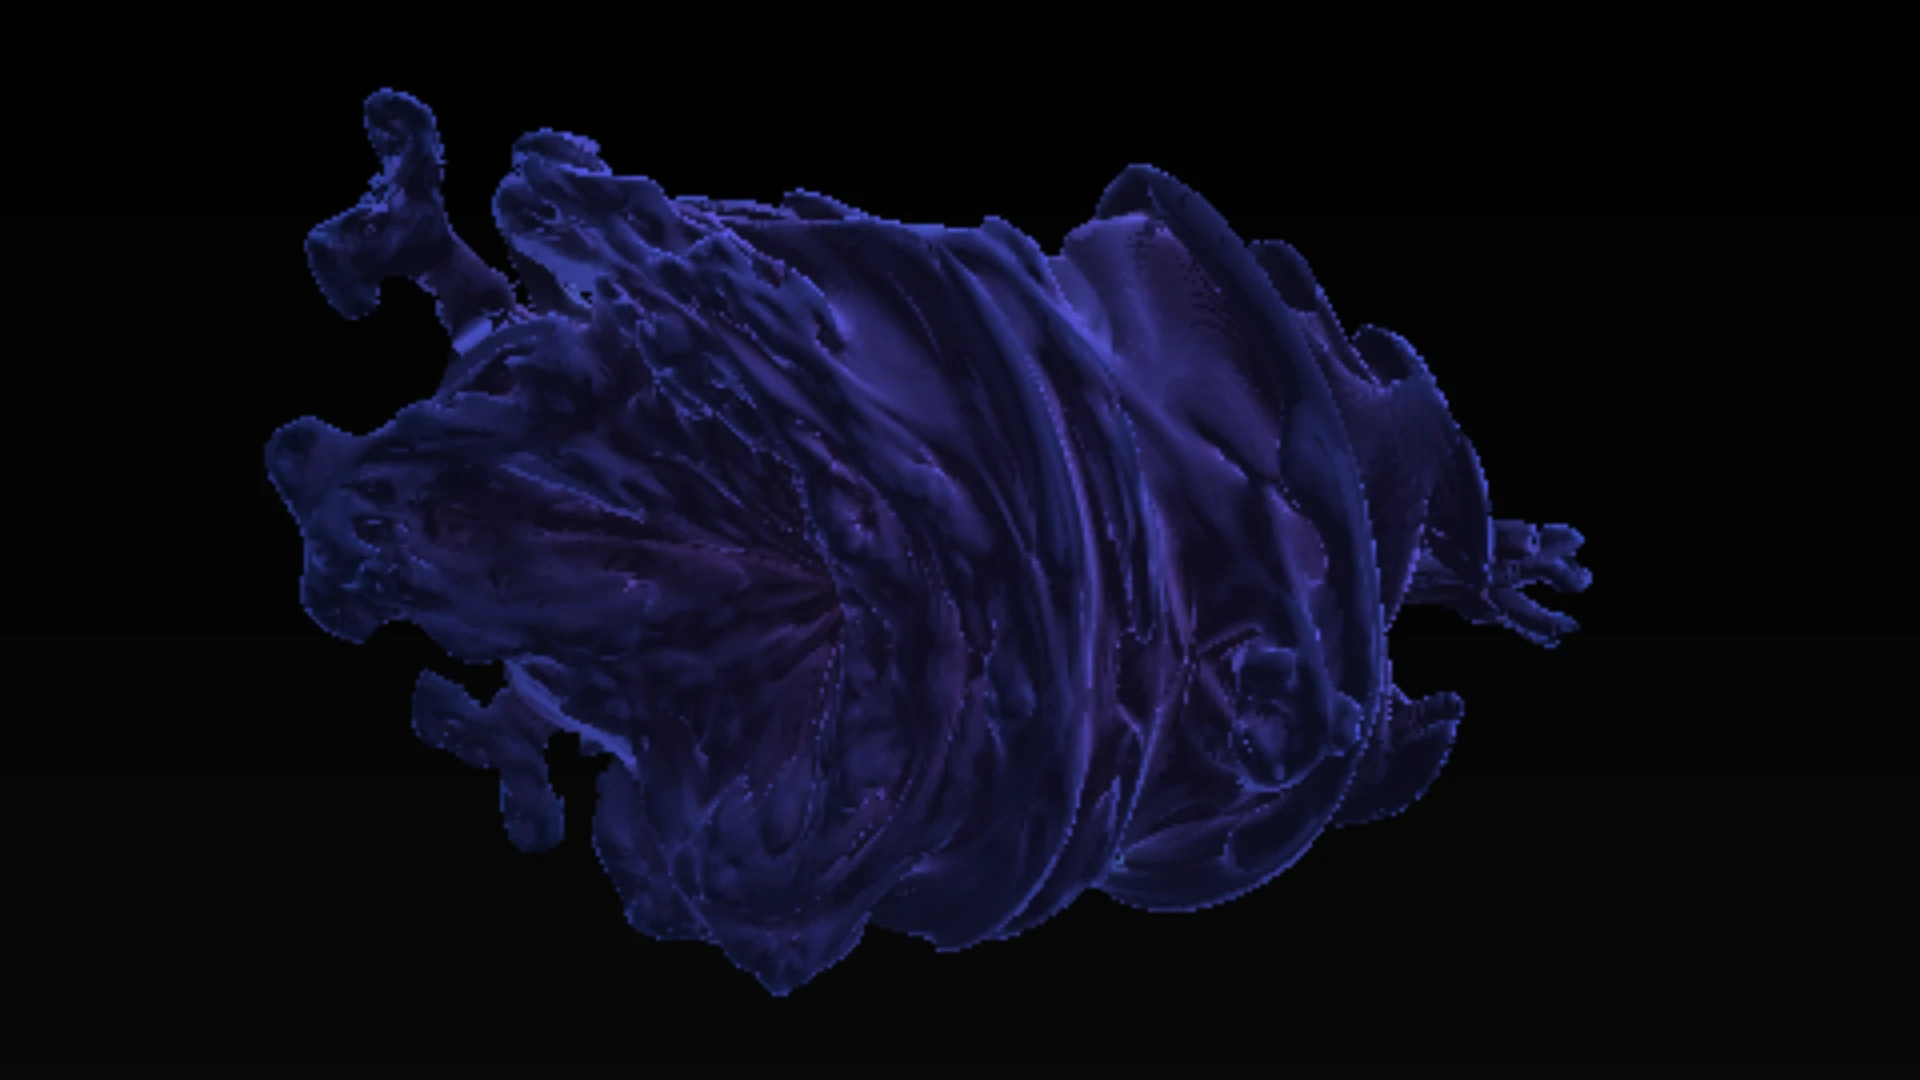
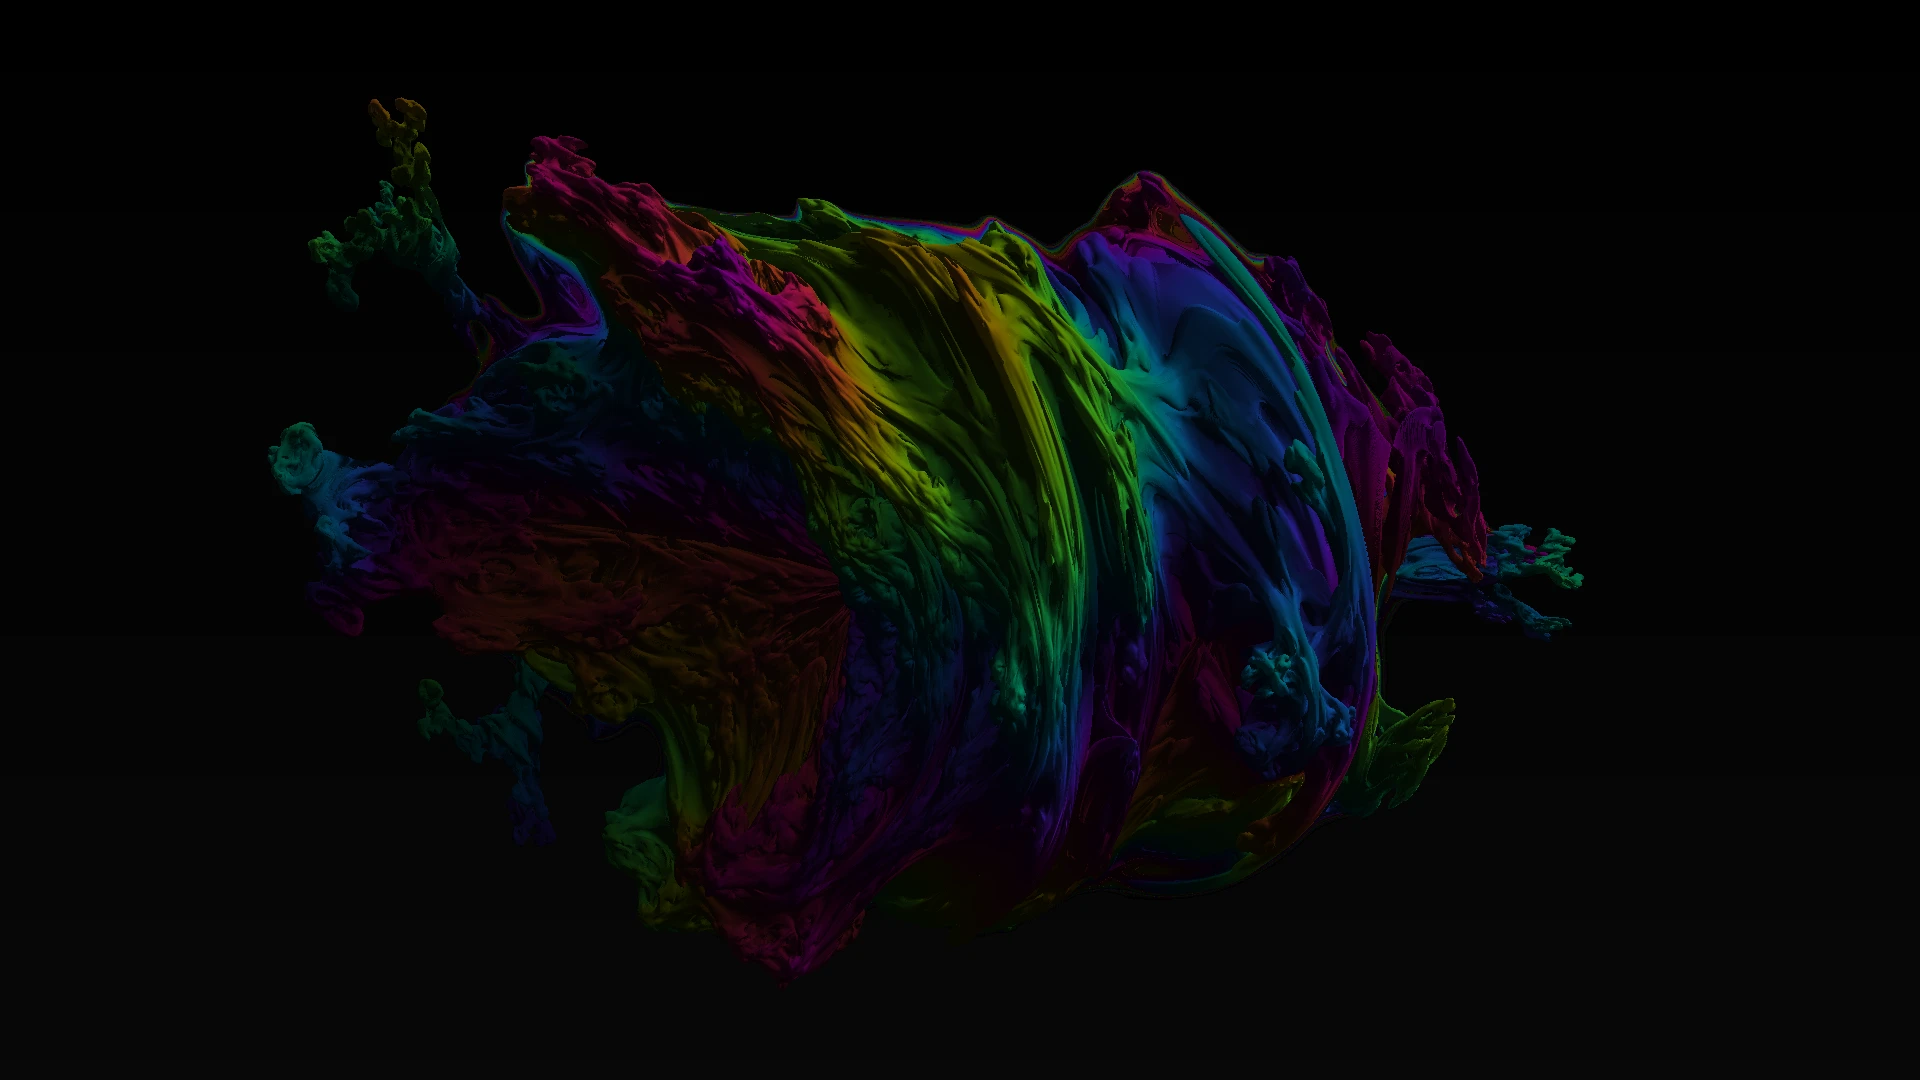
docs: refresh gallery, document --render flag, note gamepad

diff --git a/scripts/generate-previews.ts b/scripts/generate-previews.ts
@@ -7,6 +7,8 @@ import { mkdirSync, unlinkSync } from 'node:fs';
 import { resolve } from 'node:path';
 import type { ColorMode } from '../src/engine/colorModes';
 import { COLOR_MODES } from '../src/engine/colorModes';
+import type { RenderMode } from '../src/engine/renderModes';
+import { RENDER_MODES } from '../src/engine/renderModes';
 import type { FractalSpec } from './preview-fractals';
 import { FRACTALS } from './preview-fractals';
 
@@ -20,6 +22,7 @@ const PORT = 4173;
 interface Options {
   fractals: string[];
   color: ColorMode;
+  render: RenderMode;
   preset: keyof typeof PRESETS;
   outDir: string;
 }
@@ -28,10 +31,33 @@ function isColorMode(value: string): value is ColorMode {
   return (COLOR_MODES as ReadonlyArray<string>).includes(value);
 }
 
+function isRenderMode(value: string): value is RenderMode {
+  return (RENDER_MODES as ReadonlyArray<string>).includes(value);
+}
+
+const HELP_TEXT = `Usage: generate-previews [options] [fractal names...]
+
+Options:
+  --color <mode>    Color mode (default: glow)
+  --render <mode>   Render mode (default: ray)
+  --highres         1920x1080 with longer render wait (default: 960x540)
+  --help            Show this help
+
+Examples:
+  pnpm run generate-previews
+  pnpm run generate-previews mandelbulb menger --color chromatic
+  pnpm run generate-previews --highres --color distance --render softshadow
+  pnpm run generate-previews mandelbulb --highres
+
+Available fractals: ${FRACTALS.map((f) => f.type).join(', ')}
+Available colors: ${COLOR_MODES.join(', ')}
+Available renders: ${RENDER_MODES.join(', ')}`;
+
 function parseArgs(): Options {
   const args = process.argv.slice(2);
   const fractals: string[] = [];
   let color: ColorMode = 'glow';
+  let render: RenderMode = 'ray';
   let preset: keyof typeof PRESETS = 'thumbnail';
 
   for (let i = 0; i < args.length; i++) {
@@ -43,24 +69,17 @@ function parseArgs(): Options {
         process.exit(1);
       }
       color = next;
+    } else if (arg === '--render' && args[i + 1] != null) {
+      const next = args[++i]!;
+      if (!isRenderMode(next)) {
+        console.error(`Unknown render mode "${next}". Available: ${RENDER_MODES.join(', ')}`);
+        process.exit(1);
+      }
+      render = next;
     } else if (arg === '--highres') {
       preset = 'highres';
     } else if (arg === '--help') {
-      console.log(`Usage: generate-previews [options] [fractal names...]
-
-Options:
-  --color <mode>   Color mode (default: glow)
-  --highres        1920x1080 with longer render wait (default: 960x540)
-  --help           Show this help
-
-Examples:
-  pnpm run generate-previews
-  pnpm run generate-previews mandelbulb menger --color chromatic
-  pnpm run generate-previews --highres --color distance
-  pnpm run generate-previews mandelbulb --highres
-
-Available fractals: ${FRACTALS.map((f) => f.type).join(', ')}
-Available colors: ${COLOR_MODES.join(', ')}`);
+      console.log(HELP_TEXT);
       process.exit(0);
     } else if (!arg.startsWith('--')) {
       fractals.push(arg);
@@ -72,7 +91,7 @@ Available colors: ${COLOR_MODES.join(', ')}`);
       ? resolve(import.meta.dirname, '../public/screenshots')
       : resolve(import.meta.dirname, '../public/previews');
 
-  return { fractals, color, preset, outDir };
+  return { fractals, color, render, preset, outDir };
 }
 
 function waitForServer(server: ChildProcess): Promise<void> {
@@ -92,13 +111,14 @@ function waitForServer(server: ChildProcess): Promise<void> {
   });
 }
 
-function buildFractalParams(fractal: FractalSpec, color: string): URLSearchParams {
+function buildFractalParams(fractal: FractalSpec, color: string, render: string): URLSearchParams {
   return new URLSearchParams({
     f: fractal.type,
     p: String(fractal.power),
     i: String(fractal.iter),
     b: String(fractal.bail),
     c: color,
+    r: render,
     x: String(fractal.x),
     y: String(fractal.y),
     z: String(fractal.z),
@@ -115,12 +135,13 @@ async function captureFractal(
   browser: Browser,
   fractal: FractalSpec,
   color: string,
+  render: string,
   outDir: string,
   preset: (typeof PRESETS)[keyof typeof PRESETS],
 ): Promise<void> {
   const { width, height, wait } = preset;
   const page = await browser.newPage({ viewport: { width, height }, ignoreHTTPSErrors: true });
-  const params = buildFractalParams(fractal, color);
+  const params = buildFractalParams(fractal, color, render);
   await page.goto(`https://localhost:${PORT}/Fractr/?${params.toString()}`);
   await page.waitForTimeout(wait);
 
@@ -147,7 +168,7 @@ async function captureAll(
   for (const fractal of targets) {
     console.log(`Capturing ${fractal.type}...`);
     // oxlint-disable-next-line no-await-in-loop -- shared browser: pages must be created/closed sequentially and screenshots are serial
-    await captureFractal(browser, fractal, opts.color, opts.outDir, preset);
+    await captureFractal(browser, fractal, opts.color, opts.render, opts.outDir, preset);
   }
   await browser.close();
 }
@@ -169,7 +190,7 @@ async function main(): Promise<void> {
   execSync('pnpm run build', { stdio: 'inherit', cwd: resolve(import.meta.dirname, '..') });
 
   console.log(
-    `Capturing ${targets.length} fractal(s) at ${preset.width}x${preset.height} with color=${opts.color}...`,
+    `Capturing ${targets.length} fractal(s) at ${preset.width}x${preset.height} with color=${opts.color}, render=${opts.render}...`,
   );
   const server = spawn('pnpm', ['run', 'preview', '--port', String(PORT)], {
     stdio: 'pipe',

diff --git a/README.md b/README.md
@@ -21,6 +21,7 @@ Ultra-performant 3D fractal explorer powered by WebGPU. Fly through infinite mat
 - **Adaptive quality** — resolution scales with FPS for smooth performance on any GPU
 - **Shareable URLs** — URL updates live with your camera position; press P to copy
 - **Mobile touch controls** — dual-joystick (left = move, right = look), auto-detected on touch devices
+- **Gamepad support** — standard 6DOF controls via sticks, triggers, and face buttons
 - **F1 controls overlay** — in-game keybinding reference; shows touch controls on mobile
 - **Game-style UI** — title screen, fractal selection, pause menu, settings, HUD
 
@@ -98,8 +99,11 @@ pnpm run generate-previews
 # Specific fractals with custom color
 pnpm run generate-previews mandelbulb menger --color chromatic
 
+# Custom color and render mode
+pnpm run generate-previews quatjulia --color chromatic --render reflection
+
 # High-res screenshots (1920x1080, for README)
-pnpm run generate-previews --highres --color glow
+pnpm run generate-previews --highres --color glow --render softshadow
 
 # Single fractal, high-res
 pnpm run generate-previews mandelbulb --highres
